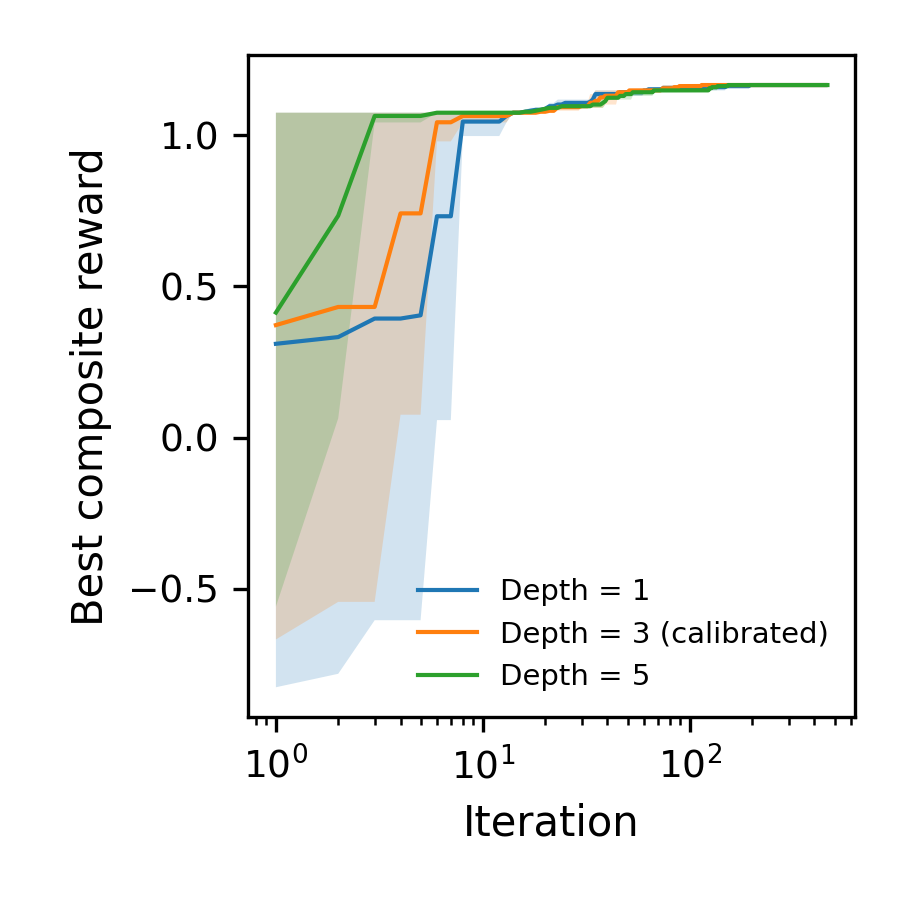
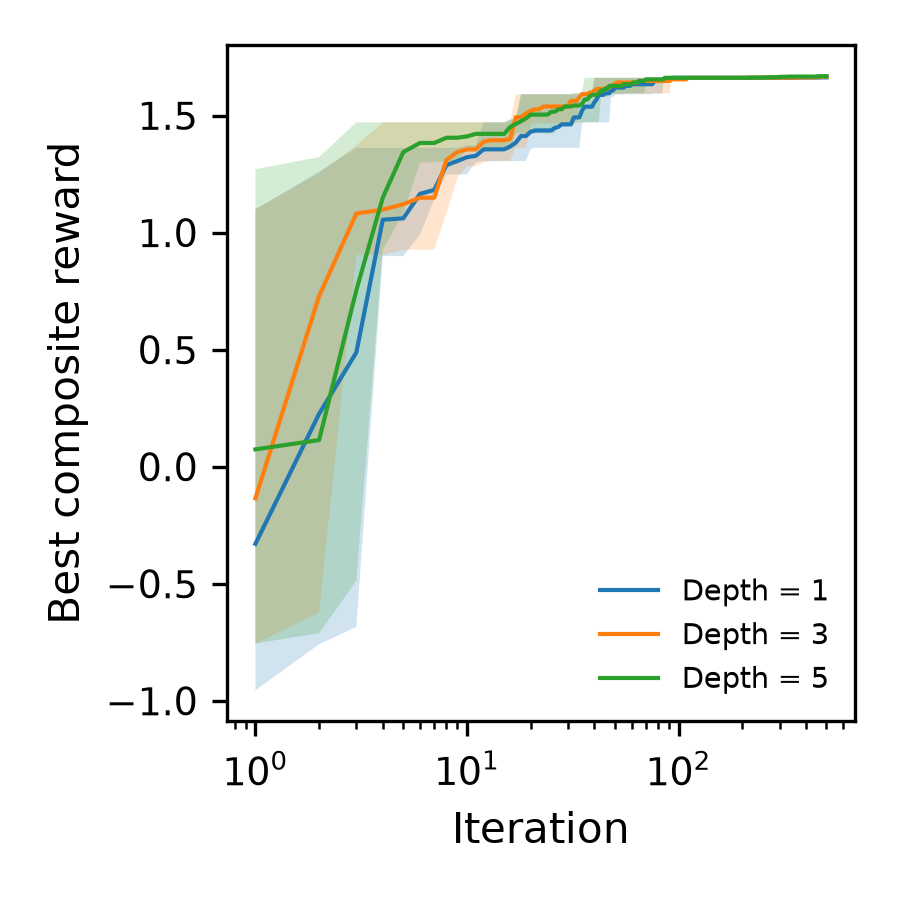
Updated sensitivity study parameters

diff --git a/sensitivity_studies/scripts/common.py b/sensitivity_studies/scripts/common.py
@@ -42,7 +42,7 @@ from mcts_crystal.cli import override_composition
 # effects aren't masked by starting so close to the optimum that the search
 # converges before any hyperparameter can matter.
 #
-# n_rollout=2/rollout_depth=2 means: every expansion draws two reward samples.
+# n_rollout=2/rollout_depth=3 means: every expansion draws two reward samples.
 # The first (depth=0) evaluates the new node's own composition and records its
 # e_form/e_above_hull. The second (depth=2) performs a max-along-walk: two
 # successive random substitutions are applied, the composite reward is scored
@@ -61,7 +61,7 @@ BASELINE = dict(
     epsilon=0.2,
     temperature=1.0,
     termination_limit=25,
-    rollout_depth=2,
+    rollout_depth=3,
     n_rollout=2,
     rollout_method='ehull_rdos',
     beta=1.0,

diff --git a/sensitivity_studies/scripts/plot_sweep.py b/sensitivity_studies/scripts/plot_sweep.py
@@ -50,7 +50,8 @@ def plot_convergence(csv_path, title, out_path, label_prefix=''):
     value_order = list(dict.fromkeys(df['value']))
     for value in value_order:
         sub = stats[stats['value'] == value]
-        ax.plot(sub['iteration'], sub['mean'], label=f"{label_prefix}{value}", linewidth=1)
+        display = str(value).replace(' (calibrated)', '')
+        ax.plot(sub['iteration'], sub['mean'], label=f"{label_prefix}{display}", linewidth=1)
         ax.fill_between(sub['iteration'], sub['p10'], sub['p90'], alpha=0.2)
 
     ax.set_xscale('log')
